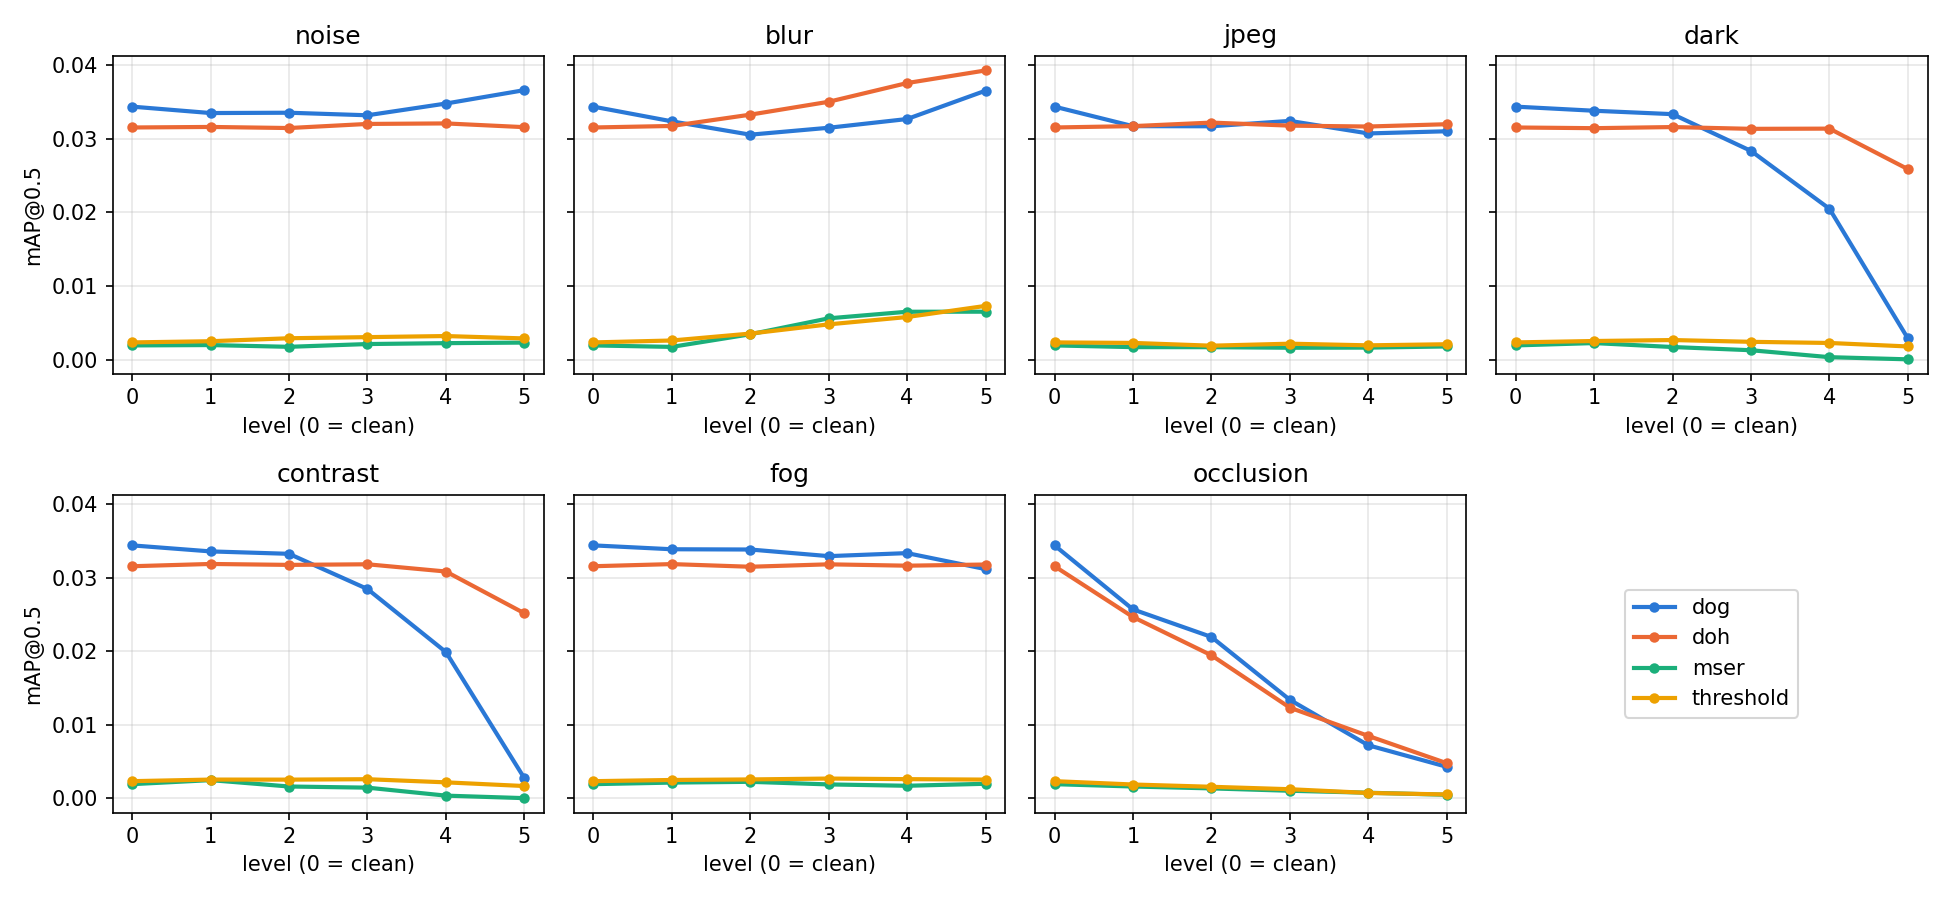
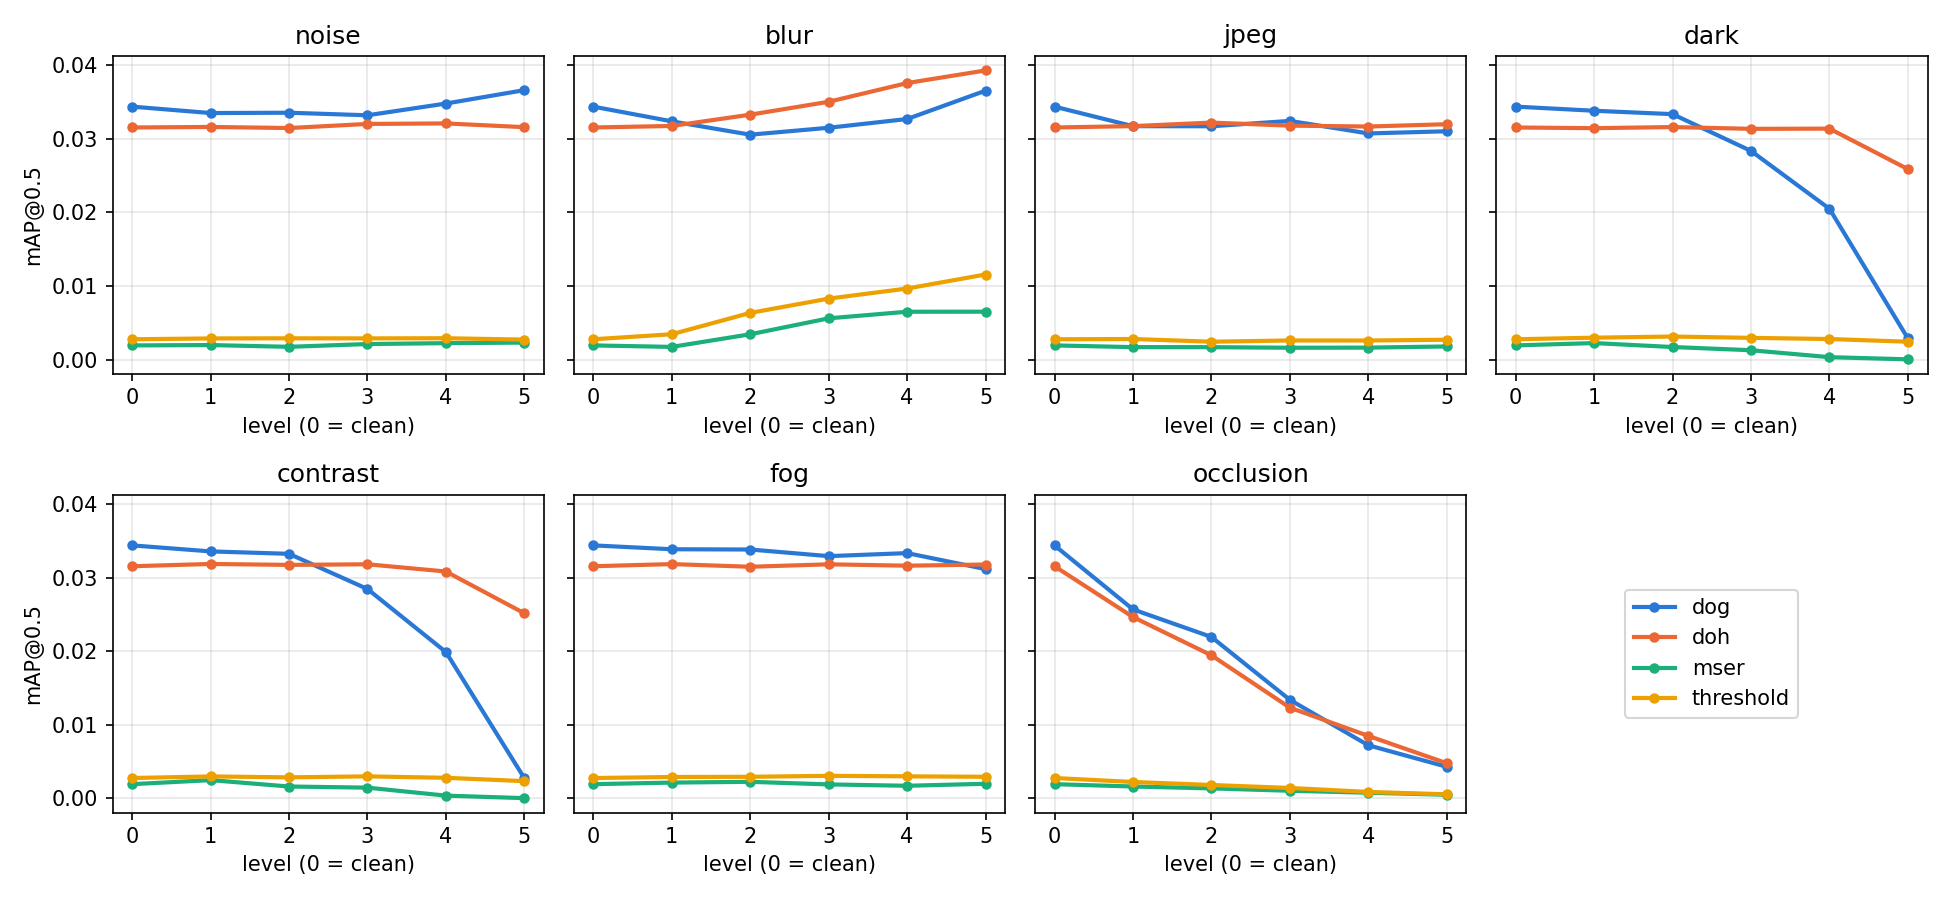
Re-run threshold detector after bright-pass fix; update results and README

diff --git a/README.md b/README.md
@@ -108,7 +108,7 @@ setting.
 | DoG | 0.034 | 0.034 | 0.033 | 0.032 | 0.024 | 0.024 | 0.033 | 0.015 |
 | DoH | 0.032 | 0.032 | 0.035 | 0.032 | 0.030 | 0.030 | 0.032 | 0.014 |
 | MSER | 0.002 | 0.002 | 0.005 | 0.002 | 0.001 | 0.001 | 0.002 | 0.001 |
-| Threshold | 0.002 | 0.003 | 0.005 | 0.002 | 0.002 | 0.002 | 0.003 | 0.001 |
+| Threshold | 0.003 | 0.003 | 0.008 | 0.003 | 0.003 | 0.003 | 0.003 | 0.001 |
 
 **Validation set** (291 images):
 
@@ -117,7 +117,7 @@ setting.
 | DoG | 0.033 | 0.036 | 0.035 | 0.033 | 0.024 | 0.024 | 0.033 | 0.014 |
 | DoH | 0.032 | 0.032 | 0.038 | 0.032 | 0.031 | 0.032 | 0.032 | 0.013 |
 | MSER | 0.002 | 0.002 | 0.005 | 0.002 | 0.001 | 0.001 | 0.002 | 0.001 |
-| Threshold | 0.005 | 0.005 | 0.008 | 0.004 | 0.005 | 0.005 | 0.006 | 0.002 |
+| Threshold | 0.005 | 0.004 | 0.011 | 0.004 | 0.005 | 0.005 | 0.005 | 0.002 |
 
 Corruption columns are averaged over levels 1-5. Per-level results are in
 `results_nonlearning/results_{val,test}.json`.
